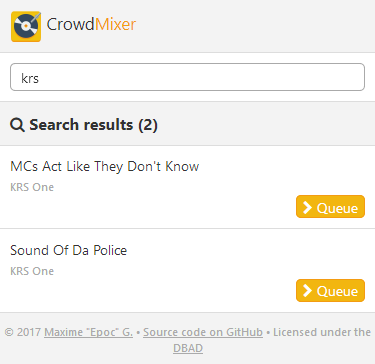
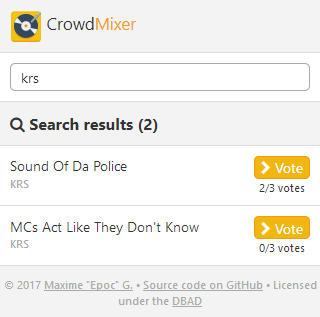
Layout enahncement and screenshot update

diff --git a/templates/home.html b/templates/home.html
@@ -20,15 +20,14 @@
         <div class="songs">
             {% for song in songs %}
                 <div class="song btg pas">
-                    <div>{{ song.title }}</div>
-                    <small class="txtmuted">{% if not song.artist %}{{ _('Unknown artist') }}{% else %}{{ song.artist }}{% endif %}</small>
-                    <div class="txtright">
+                    <div class="fr">
+                        {% set show_votes_count = False %}
                         {% if song.last_queued_at and (arrow.now().timestamp - song.last_queued_at.timestamp) <= config['BLOCK_TIME'] %}
                             {% set btn_class = 'is-disabled' %}
                             {% set btn_label = _('Queued %(last_queued_at)s', last_queued_at=song.last_queued_at.humanize(locale=g.CURRENT_LOCALE)) %}
                         {% else %}
                             {% if config['MODE'] == 'Vote' %}
-                                {{ song.votes }}/{{ config['VOTES_THRESHOLD'] }} {{ _('votes') }}
+                                {% set show_votes_count = True %}
                             {% endif %}
 
                             {% if already_submitted_time and (arrow.now().timestamp - already_submitted_time.timestamp) <= config['REQUEST_LIMIT'] %}
@@ -50,8 +49,15 @@
                             {% endif %}
                         {% endif %}
 
-                        <a href="{{ url_for('submit', song_id=song.id) }}" class="btn {{ btn_class }}" {% if btn_class == 'is-disabled' %}onClick="return false;"{% endif %}>{{ btn_label }}</a>
+                        <div><a href="{{ url_for('submit', song_id=song.id) }}" class="btn {{ btn_class }}" {% if btn_class == 'is-disabled' %}onClick="return false;"{% endif %}>{{ btn_label }}</a></div>
+
+                        {% if show_votes_count %}
+                            <div class="small txtcenter">{{ song.votes }}/{{ config['VOTES_THRESHOLD'] }} {{ _('votes') }}</div>
+                        {% endif %}
                     </div>
+                    <div>{{ song.title }}</div>
+                    <div class="small txtmuted">{% if not song.artist %}{{ _('Unknown artist') }}{% else %}{{ song.artist }}{% endif %}</div>
+                    <div class="clearfix"></div>
                 </div>
             {% endfor %}
         </div>
